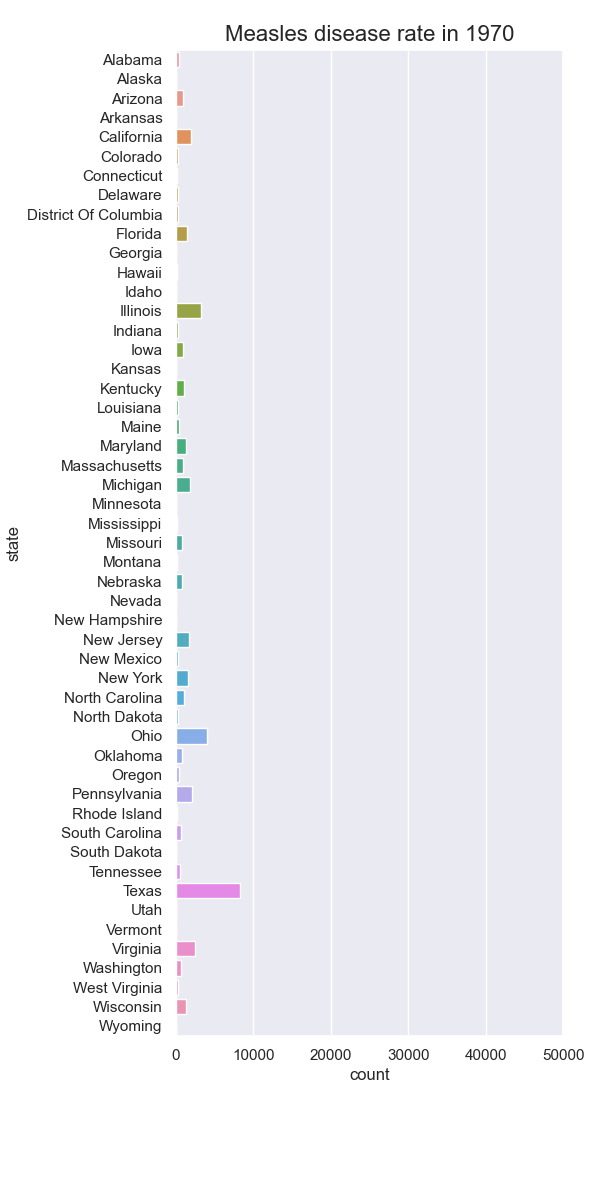
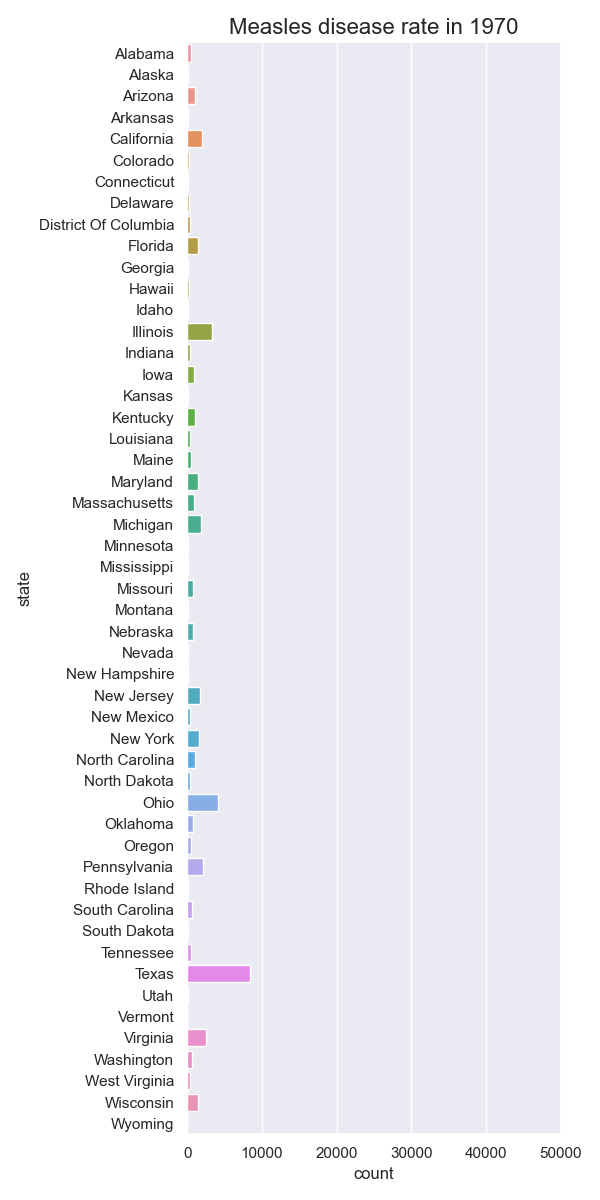
feat: Added option to display plots (false by deafult). Added gitignore

diff --git a/Task1/main.py b/Task1/main.py
@@ -2,20 +2,23 @@ import pandas as pd
 import seaborn as sns
 import matplotlib.pyplot as plt
 import numpy as np
+from argument_parser import ArgumentParser
+
 
 sns.set_theme()
+args = ArgumentParser().get_arguments()
 df = pd.read_csv('us_contagious_diseases.csv', header=0, index_col=0)
 
-# 1
+### 1
 df.drop(df[(df['state'] == 'Alaska') |
            (df['state'] == 'Hawaii') |
            (df['disease'] != 'Measles') |
            (df['population'] <= 100000)].index, inplace=True)
 
-# 2
+### 2
 californiaDF = df.drop(df[df['state'] != 'California'].index)
 
-plot = sns.relplot(data=californiaDF, kind='line', marker='o', x='year', y='count')
+plot = sns.relplot(x=californiaDF['year'], y=californiaDF['count'], kind='line', marker='o')
 plt.axvline(1963, color='r')
 
 plt.annotate('1963 - measles vaccine\nintroduction', xy=(1963, 60000), xytext=(1963 + 8, 70000),
@@ -24,10 +27,13 @@ plot.fig.set_size_inches(10, 6)
 plot.set_xlabels('year')
 plot.set_ylabels('measles disease rate')
 plt.title('Measles disease rate per year for California', fontsize=16)
-plt.show()
+plt.tight_layout()
+if (args.show_plot):
+    plt.show()
 plot.savefig('imgs/measles_disease_rate_in_California.png')
+plt.close()
 
-# 3
+### 3
 df = pd.read_csv('us_contagious_diseases.csv', header=0, index_col=0)
 df = df[df['disease'] == 'Measles']
 
@@ -46,69 +52,100 @@ hist_1970['count square transform'] = np.sqrt(hist_1970['count'])
 # plot 1950
 plot_histogram_1950 = sns.barplot(x=hist_1950['count'], y=hist_1950.index)
 plt.xlim(0, 50000)
-plt.tight_layout()
 plt.gca().get_yticklabels()[1].set_color("red")
 #plt.gca().get_yticklabels()[11].set_color("red")
-plt.figtext(0.05, 0.01, "* red states did not exist at that time", ha="left", fontsize=12, color='red')
+plt.figtext(0.01, 0.01, "*red states did not exist at that time", ha="left", fontsize=12, color='red')
 fig = plot_histogram_1950.get_figure()
 fig.set_size_inches(6, 12)
 plt.title('Measles disease rate in 1950', fontsize=16)
+plt.tight_layout()
+if (args.show_plot):
+    plt.show()
 fig.savefig("imgs/measles_disease_rate_in_1950.png")
-plt.show()
+plt.clf()
 
 # plot 1960
 plot_histogram_1960 = sns.barplot(x=hist_1960['count'], y=hist_1960.index)
 plt.xlim(0, 50000)
-plt.tight_layout()
 fig = plot_histogram_1960.get_figure()
 fig.set_size_inches(6, 12)
 plt.title('Measles disease rate in 1960', fontsize=16)
+plt.tight_layout()
+if (args.show_plot):
+    plt.show()
 fig.savefig("imgs/measles_disease_rate_in_1960.png")
-plt.show()
+plt.clf()
 
 # plot 1970
 plot_histogram_1970 = sns.barplot(x=hist_1970['count'], y=hist_1970.index)
 plt.xlim(0, 50000)
-plt.tight_layout()
 fig = plot_histogram_1970.get_figure()
 fig.set_size_inches(6, 12)
 plt.title('Measles disease rate in 1970', fontsize=16)
+plt.tight_layout()
+if (args.show_plot):
+    plt.show()
 fig.savefig("imgs/measles_disease_rate_in_1970.png")
-plt.show()
+plt.clf()
 
 # plot 1950 square root transformation
 plot_histogram_1950 = sns.barplot(x=hist_1950['count square transform'], y=hist_1950.index)
 plt.xlim(0, 250)
-plt.tight_layout()
 plt.gca().get_yticklabels()[1].set_color("red")
 #plt.gca().get_yticklabels()[11].set_color("red")
-plt.figtext(0.01, 0.01, "* red states did not exist at that time", ha="left", fontsize=12, color='red')
+plt.figtext(0.01, 0.01, "*red states did not exist at that time", ha="left", fontsize=12, color='red')
 fig = plot_histogram_1950.get_figure()
 fig.set_size_inches(6, 12)
 plot.set_xlabels('count')
 plt.title('Measles disease rate in 1950', fontsize=16)
+plt.tight_layout()
+if (args.show_plot):
+    plt.show()
 fig.savefig("imgs/measles_disease_rate_in_1950_sqrt_transform.png")
-plt.show()
+plt.clf()
 
 # plot 1960 square root transformation
 plot_histogram_1960 = sns.barplot(x=hist_1960['count square transform'], y=hist_1960.index)
 plt.xlim(0, 250)
-plt.tight_layout()
 fig = plot_histogram_1960.get_figure()
 fig.set_size_inches(6, 12)
 plot.set_xlabels('count')
 plt.title('Measles disease rate in 1960', fontsize=16)
+plt.tight_layout()
+if (args.show_plot):
+    plt.show()
 fig.savefig("imgs/measles_disease_rate_in_1960_sqrt_transform.png")
-plt.show()
+plt.clf()
 
 # plot 1970 square root transformation
 plot_histogram_1970 = sns.barplot(x=hist_1970['count square transform'], y=hist_1970.index)
 plt.xlim(0, 250)
-plt.tight_layout()
+
 fig = plot_histogram_1970.get_figure()
 fig.set_size_inches(6, 12)
 plot.set_xlabels('count')
 plt.title('Measles disease rate in 1970', fontsize=16)
+plt.tight_layout()
+plt.tight_layout()
+if (args.show_plot):
+    plt.show()
 fig.savefig("imgs/measles_disease_rate_in_1970_sqrt_transform.png")
-plt.show()
+plt.close()
 
+### 4
+californiaDF['count square transform'] = np.sqrt(californiaDF['count'])
+
+plot = sns.relplot(x=californiaDF['year'], y=californiaDF['count square transform'], kind='line', marker='o')
+plt.axvline(1963, color='r')
+
+plt.annotate('1963 - measles vaccine\nintroduction', xy=(1963, 225), xytext=(1963 + 8, 275),
+             arrowprops=dict(facecolor='black', shrink=0.05, headwidth=10, width=3))
+plot.fig.set_size_inches(10, 6)
+plot.set_xlabels('year')
+plot.set_ylabels('measles disease square rate')
+plt.title('Measles disease rate per year for California', fontsize=16)
+plt.tight_layout()
+if (args.show_plot):
+    plt.show()
+plot.savefig('imgs/measles_disease_rate_in_California_sqrt_transform.png')
+plt.clf()

diff --git a/Task1/argument_parser.py b/Task1/argument_parser.py
@@ -1,0 +1,28 @@
+import argparse
+
+
+class ArgumentParser:
+
+    def __init__(self):
+        self.parser = argparse.ArgumentParser(
+            prog='ZIMed - Task 1',
+            formatter_class=argparse.RawTextHelpFormatter,
+            description='Lodz University of Technology (TUL)'
+                        '\nComputer Applications in Medicine'
+                        ' (Zastosowania informatyki w medycynie)'
+                        '\n\nTask1'
+                        '\n\nAuthors:'
+                        '\n  Paweł Jeziorski\t???'
+                        '\n  Barbara Morawska\t???'
+                        '\n  Karol Podlewski\t234106'
+                        '\n  Andrzej Sasinowski\t???') 
+
+        self.parser.add_argument('-s', '--show', dest='show_plot', 
+                                 action='store_const', const=True, default=False,
+                                 help='Show plots during program run')
+
+        self.args = self.parser.parse_args()
+
+
+    def get_arguments(self):
+        return self.args
